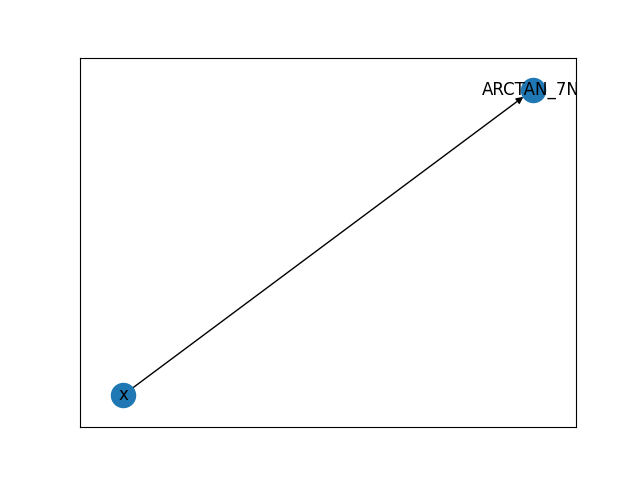
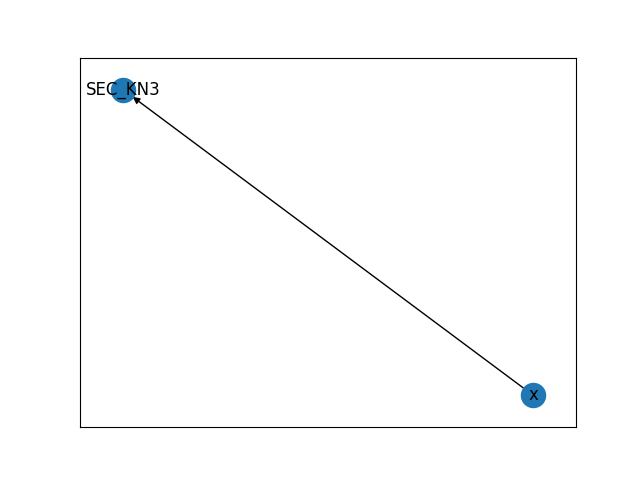
adds sec, csc, cot ops

diff --git a/CalCoolUs/preprocess.py b/CalCoolUs/preprocess.py
@@ -196,8 +196,8 @@ class ShuntingYard:
 
 class ASTGraph:
     def __init__(self):
-        self.operations = ["+", "-", "/", "*", "^", "sin", "cos", "tan", "ln", "log", "arcsin", "arccos", "arctan"]
-        self.unary = ["sin", "cos", "tan", "ln", "log", "arcsin", "arccos", "arctan"]            
+        self.operations = ["+", "-", "/", "*", "^", "sin", "cos", "tan", "ln", "log", "arcsin", "arccos", "arctan", "cot", "csc", "sec"]
+        self.unary = ["sin", "cos", "tan", "ln", "log", "arcsin", "arccos", "arctan", "cot", "csc", "sec"]            
         root_log = MainLogger()
         self.log = root_log.StandardLogger("ASTGraph")  # Create a script specific logging instance
 
@@ -245,7 +245,13 @@ class ASTGraph:
             case "arccos":
                 return OpType.ARCCOS
             case "arctan":
-                return OpType.ARCTAN       
+                return OpType.ARCTAN
+            case "cot":
+                return OpType.COT
+            case "csc":
+                return OpType.CSC       
+            case "sec":
+                return OpType.SEC
         return "UNK"
 
     def getAST(self, shuntyardresult):

diff --git a/CalCoolUs/ops/op_types.py b/CalCoolUs/ops/op_types.py
@@ -10,6 +10,9 @@ from CalCoolUs.ops.pow import Pow
 from CalCoolUs.ops.sin import Sin
 from CalCoolUs.ops.cos import Cos
 from CalCoolUs.ops.tan import Tan
+from CalCoolUs.ops.cot import Cot
+from CalCoolUs.ops.csc import Csc
+from CalCoolUs.ops.sec import Sec
 from CalCoolUs.ops.log import Log
 from CalCoolUs.ops.ln import Ln
 from CalCoolUs.ops.arcsin import Arcsin
@@ -27,6 +30,9 @@ class OpType(Enum):
     SIN = Sin("Sis")
     COS = Cos("Cos")
     TAN = Tan("Tan")
+    COT = Cot("Cot")
+    CSC = Csc("Csc")
+    SEC = Sec("Sec")
     LOG = Log("Log")
     LN = Ln("Ln")
     ARCSIN = Arcsin("Arcsin")

diff --git a/test.py b/test.py
@@ -7,7 +7,7 @@ from CalCoolUs.ops.const import Const
 myshunt = ShuntingYard()
 
 
-#shuntres = myshunt.getPostfix("((-x+1)^-2)/((x-3)^-3)")
+shuntres = myshunt.getPostfix("sec(x)")
 #shuntres = myshunt.getPostfix("2^x")
 #shuntres = myshunt.getPostfix("(x+1)^2")
 
@@ -24,5 +24,5 @@ from CalCoolUs.numerical_engine import Numerical_Engine
 
 ne = Numerical_Engine(graph, myASTGraph)
 
-ne.solve(0.2)
-ne.differentiate(0.2)
+#ne.solve(0.2)
+print(ne.differentiate(2.3))

diff --git a/CalCoolUs/ops/cot.py b/CalCoolUs/ops/cot.py
@@ -1,0 +1,17 @@
+from CalCoolUs.ops.op import Generic_Op
+from CalCoolUs.ops.const import Const
+import math
+
+class Cot(Generic_Op):
+    def __init__(self, name):
+        super().__init__(name)
+        self.value = self
+        self.unary = True
+
+    def getDerivative(self, a, b, *args, **kwargs):
+        print(f"Cot GOT: {a}, {b}")
+        return (-1 * ((1.0/math.sin(b))**2) * a)
+
+    def __call__(self, a):
+        return 1/(math.tan(a))
+

diff --git a/CalCoolUs/ops/sec.py b/CalCoolUs/ops/sec.py
@@ -1,0 +1,17 @@
+from CalCoolUs.ops.op import Generic_Op
+from CalCoolUs.ops.const import Const
+import math
+
+class Sec(Generic_Op):
+    def __init__(self, name):
+        super().__init__(name)
+        self.value = self
+        self.unary = True
+
+    def getDerivative(self, a, b, *args, **kwargs):
+        print(f"Sin GOT: {a}, {b}")
+        return 1/math.cos(b) * a * math.tan(b)
+
+    def __call__(self, a):
+        return 1/math.cos(a)
+

diff --git a/CalCoolUs/ops/csc.py b/CalCoolUs/ops/csc.py
@@ -1,0 +1,16 @@
+from CalCoolUs.ops.op import Generic_Op
+from CalCoolUs.ops.const import Const
+import math
+
+class Csc(Generic_Op):
+    def __init__(self, name):
+        super().__init__(name)
+        self.value = self
+        self.unary = True
+
+    def getDerivative(self, a, b, *args, **kwargs):
+        print(f"Csc GOT: {a}, {b}")
+        return (-1/math.sin(b))*a/math.tan(b)
+
+    def __call__(self, a):
+        return 1/(math.sin(a))
